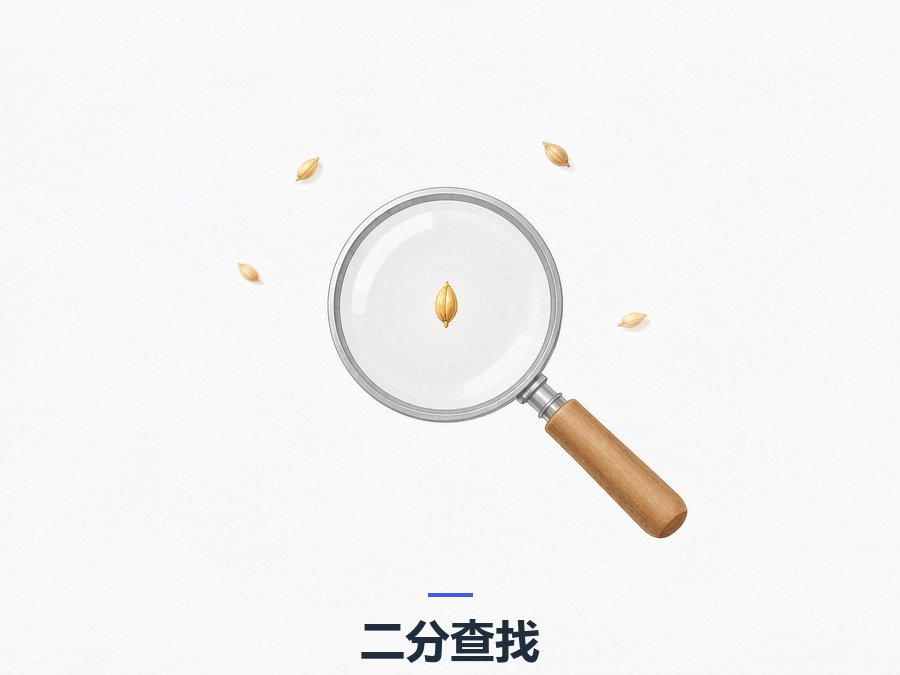
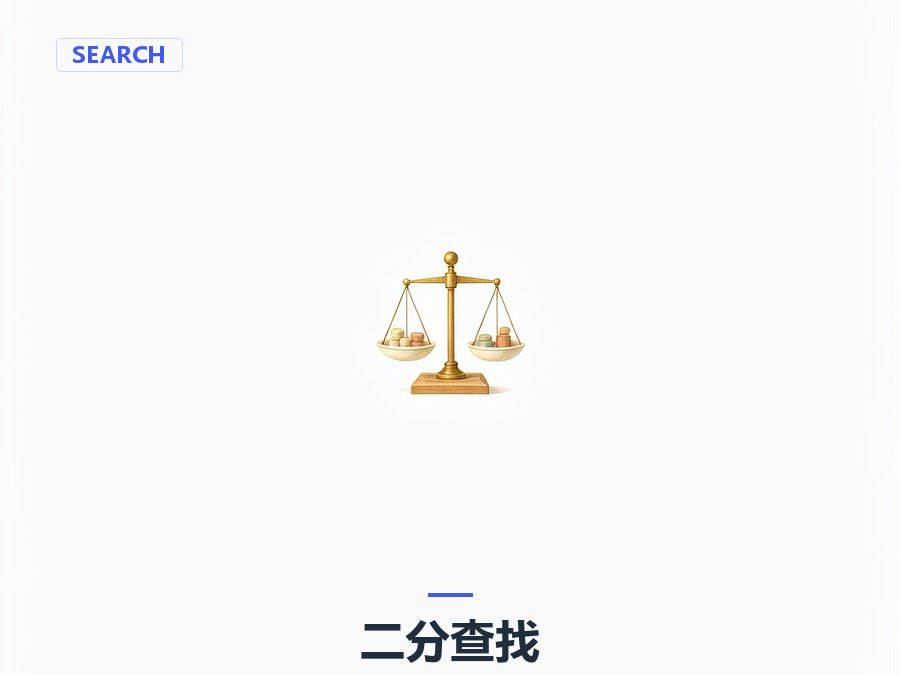
cover: 10 月 4 张 AI 封面换为暖色系（二分/KMP/快排/CipherLens）

diff --git a/tools/magpie-covers.py b/tools/magpie-covers.py
@@ -64,6 +64,10 @@ LABELS = {
     'design-patterns-creational': 'CREATE',
     'design-patterns-behavioral': 'BEHAVE',
     'design-patterns-structural': 'STRUCT',
+    'cover-binary': 'SEARCH',
+    'cover-cipherlens': 'SECURITY',
+    'cover-kmp': 'KMP',
+    'cover-quicksort': 'SORT',
 }
 
 # ── 底部小标题（TEXTS 里的 key = PROMPTS 里的 key）──
@@ -86,6 +90,10 @@ TEXTS = {
     'design-patterns-creational':     '创建型模式',
     'design-patterns-behavioral':     '行为型模式',
     'design-patterns-structural':     '结构型模式',
+    'cover-binary':     '二分查找',
+    'cover-cipherlens':     '项目拆解',
+    'cover-kmp':     'KMP 算法',
+    'cover-quicksort':     '快速排序',
 }
 
 PROMPTS = {
@@ -106,6 +114,10 @@ PROMPTS = {
     'design-patterns-creational':    'minimal composition, a small subject centered with huge empty space on all four sides, nothing near the frame edges, a small factory machine with a conveyor belt carrying small products off the end, creation concept, warm metal and wood tones, on a pure white background, bright white, ' + STYLE,
     'agent-memory-components':    'minimal composition, a small subject centered with huge empty space on all four sides, nothing near the frame edges, a small cute robot at a small desk sorting a stack of memory cards into a wooden filing cabinet, agent memory organizing concept, warm wood cabinet tones and warm metal robot tones, on a pure white background, bright white, ' + STYLE,
     'design-patterns-behavioral':    'minimal composition, a small subject centered with huge empty space on all four sides, nothing near the frame edges, a row of small brown birds perched side by side on a short wooden branch, coordinated group concept, warm wood branch tones, on a pure white background, bright white, ' + STYLE,
+    'cover-binary':    'minimal composition, a small subject centered with huge empty space on all four sides, nothing near the frame edges, a small brass balance scale with two pans holding tiny weights, searching and comparing concept, warm brass and wood tones, on a pure white background, bright white, ' + STYLE,
+    'cover-cipherlens':    'minimal composition, a small subject centered with huge empty space on all four sides, nothing near the frame edges, a small brass padlock with a key and a wooden lockbox, security concept, warm brass and wood tones, on a pure white background, bright white, ' + STYLE,
+    'cover-kmp':    'minimal composition, a small subject centered with huge empty space on all four sides, nothing near the frame edges, a magnifying glass examining a long strip of paper with small pattern marks, pattern matching concept, warm cream paper tones, on a pure white background, bright white, ' + STYLE,
+    'cover-quicksort':    'minimal composition, a small subject centered with huge empty space on all four sides, nothing near the frame edges, a row of wooden blocks sorted by height from short to tall on a table, sorting concept, warm wood block tones, on a pure white background, bright white, ' + STYLE,
 }
 
 CAPTION_FONT = 'C:/Windows/Fonts/msyhbd.ttc'
